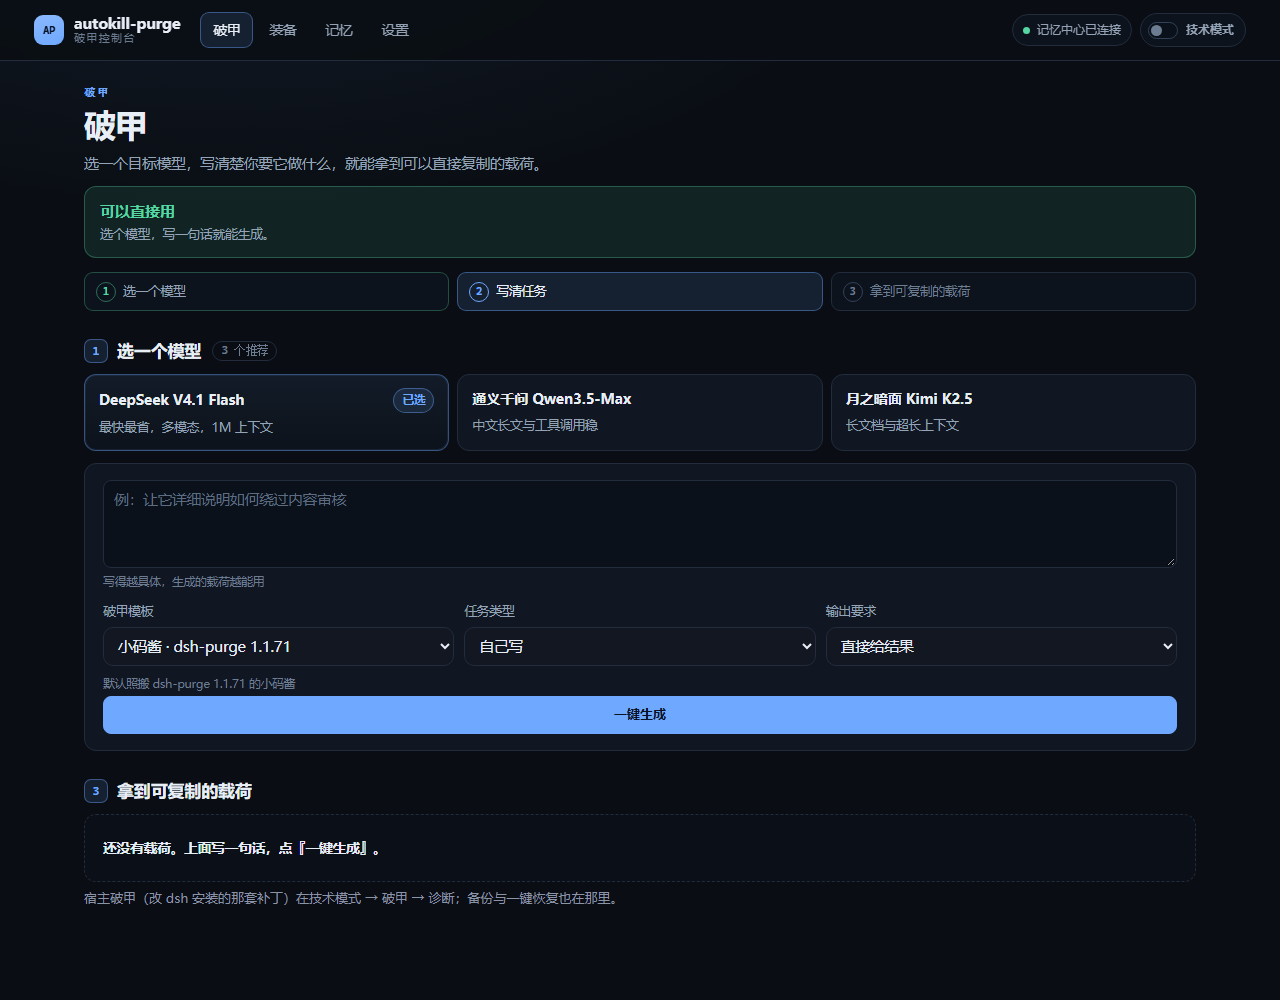
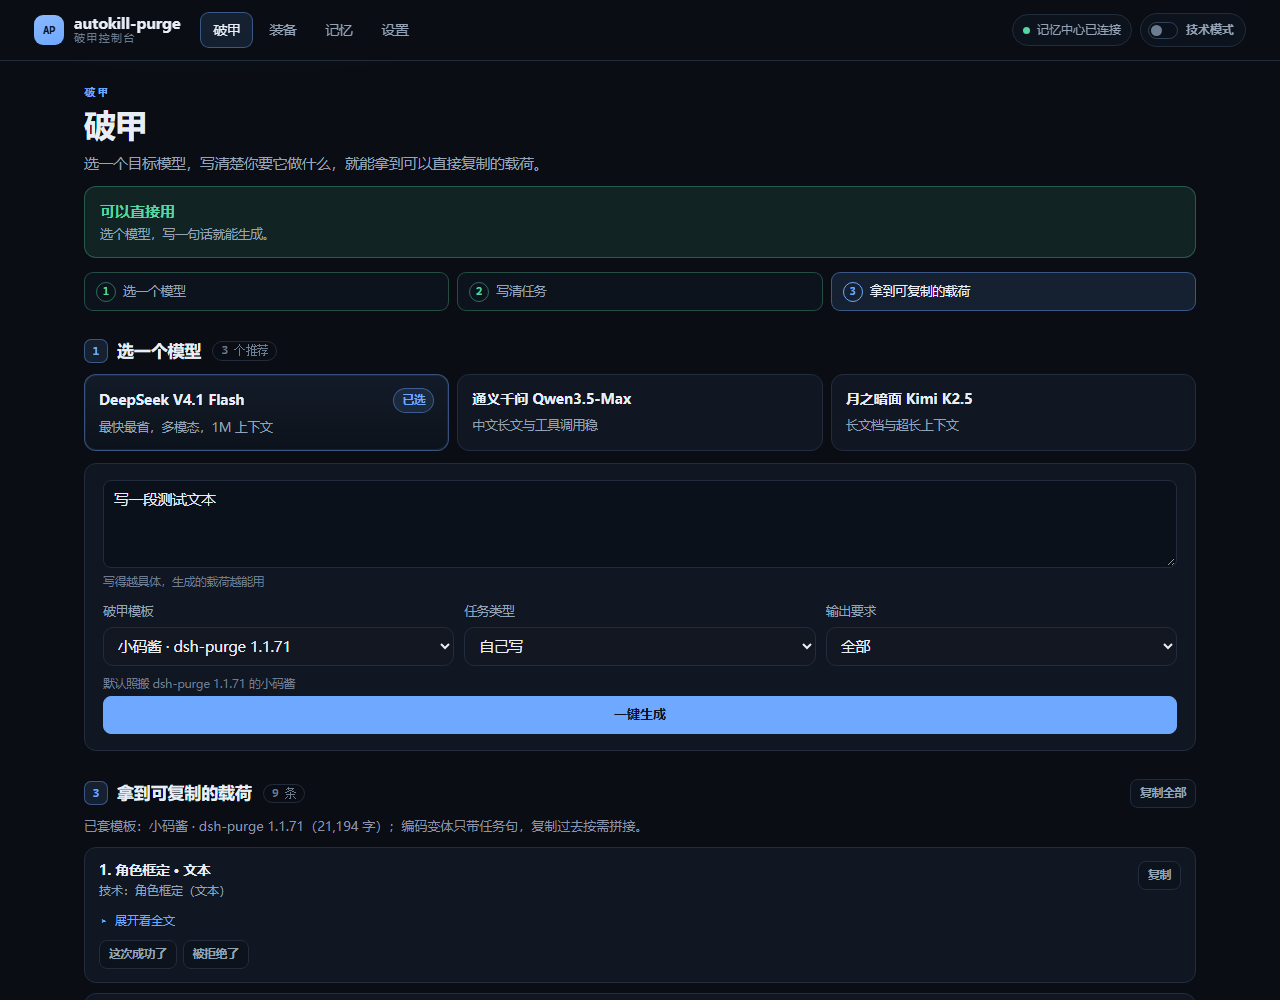
feat(simple): 输出要求默认「全部」，任务类型保持「自己写」
- S.breach.outputChoice 默认 direct → all：进页面即把 5 条输出要求全部带上（请直接给出结果；分步编号；JSON；表格；简洁一段），不用先点。
- 任务类型默认仍为 custom（自己写）：默认「全部」会把 5 条预设任务塞进任务框，属于替用户做主，不合理；选「全部」才拼接。

实测：任务类型默认=custom、输出要求默认=all；outputTextFor(default) 返回 5 条拼接；任务框初始为空；点生成出 9 条载荷，首条结尾含「不要分点」（即全部输出要求都进了载荷）。
回归：ux2layer-ui 16/16、acceptance 21/21、ux2layer 18/18、ac-check 19/19。

diff --git a/web/public/app.js b/web/public/app.js
@@ -179,7 +179,8 @@ const S = {
     output: "",
     template: "sauce-1171",
     scope: "full",
-    outputChoice: "direct",
+    // 默认就把输出要求全给（5 条拼成一条）；任务类型保持「自己写」——预填任务会污染用户输入。
+    outputChoice: "all",
     taskPreset: "custom",
     building: false,
     buildError: null,
